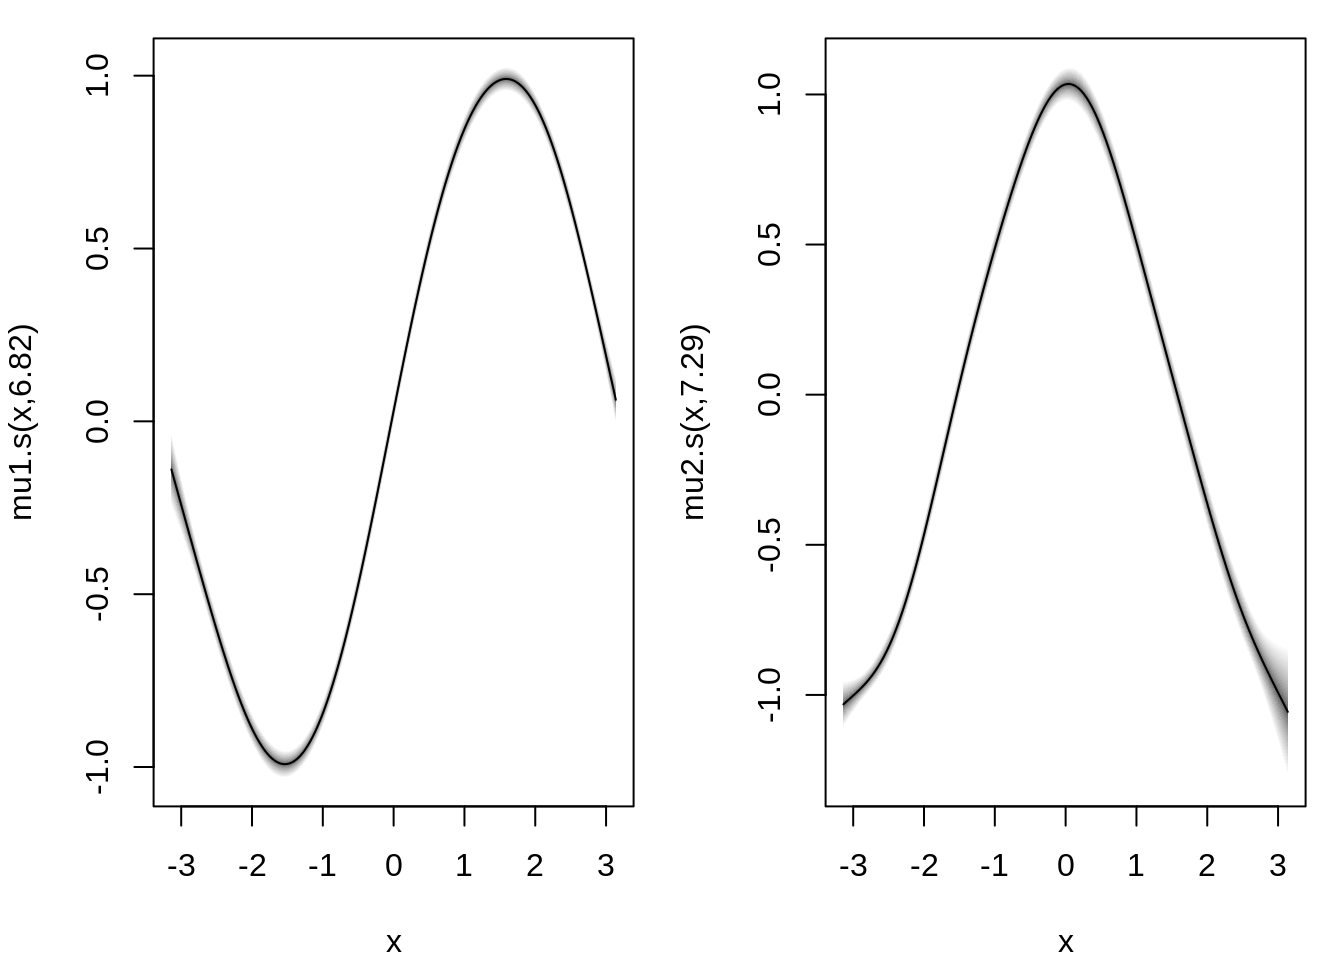
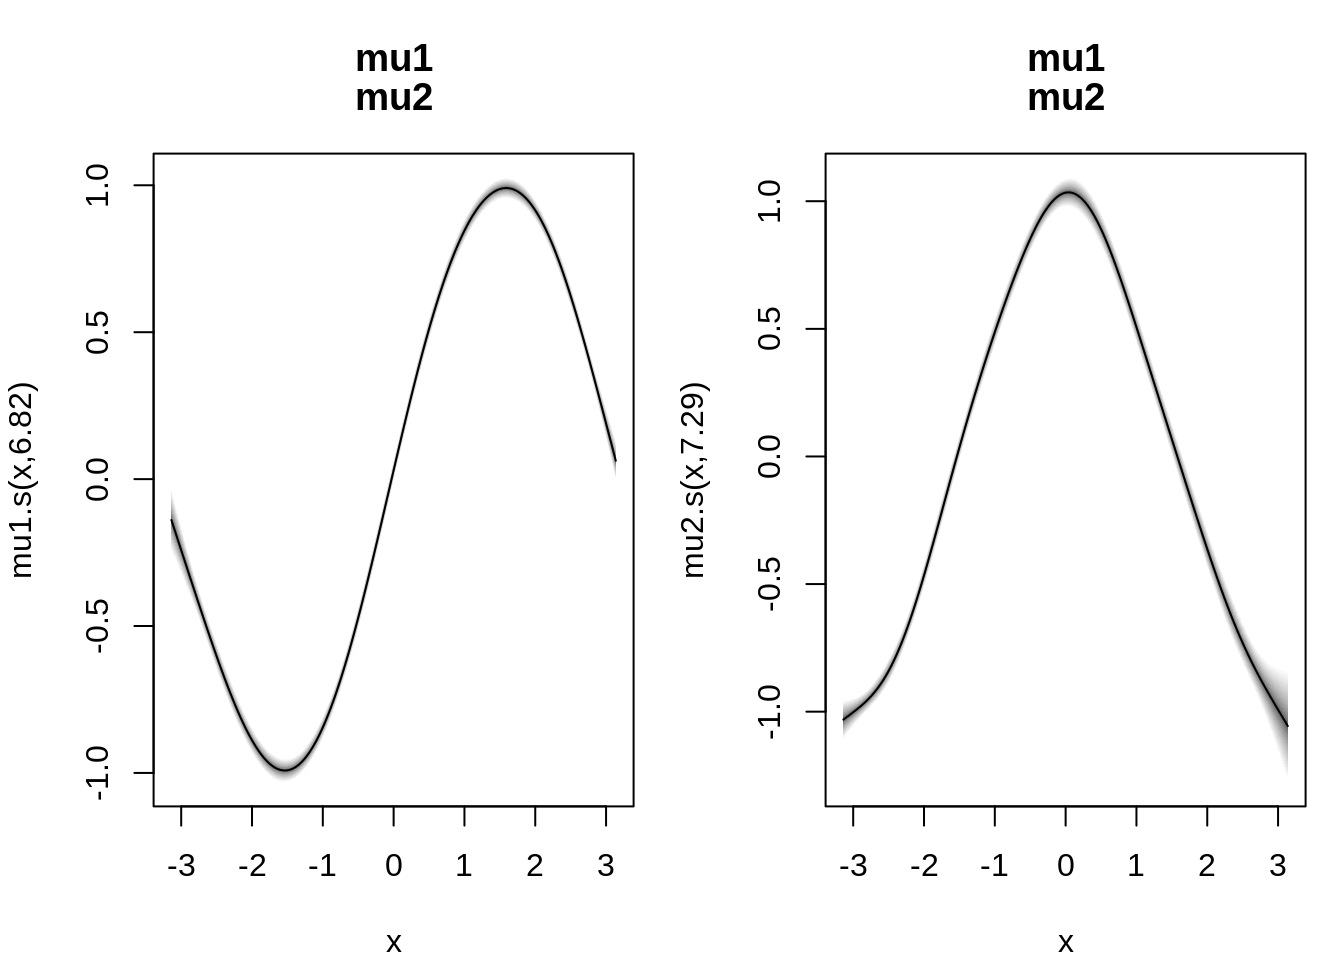
Deploying to gh-pages from @ gamlss-dev/gamlss2@c1de4eb763e1166a4002966d986838cdb9ddbfae 🚀

diff --git a/vignettes/mixture.html b/vignettes/mixture.html
@@ -412,7 +412,7 @@ div.csl-indent {
   <li><a href="#defining-a-custom-mixture-family" id="toc-defining-a-custom-mixture-family" class="nav-link" data-scroll-target="#defining-a-custom-mixture-family"><span class="header-section-number">2</span> Defining a Custom Mixture Family</a></li>
   <li><a href="#fitting-the-mixture-model" id="toc-fitting-the-mixture-model" class="nav-link" data-scroll-target="#fitting-the-mixture-model"><span class="header-section-number">3</span> Fitting the Mixture Model</a></li>
   <li><a href="#predicting-and-visualizing-results" id="toc-predicting-and-visualizing-results" class="nav-link" data-scroll-target="#predicting-and-visualizing-results"><span class="header-section-number">4</span> Predicting and Visualizing Results</a></li>
-  <li><a href="#conclusion" id="toc-conclusion" class="nav-link" data-scroll-target="#conclusion"><span class="header-section-number">5</span> Conclusion</a></li>
+  <li><a href="#summary" id="toc-summary" class="nav-link" data-scroll-target="#summary"><span class="header-section-number">5</span> Summary</a></li>
   </ul>
 </nav>
     </div>
@@ -507,8 +507,8 @@ GAMLSS-RS iteration  9: Global Deviance = 428.3982 eps = 0.000024
 GAMLSS-RS iteration 10: Global Deviance = 428.3948 eps = 0.000008     </code></pre>
 </div>
 <div class="sourceCode cell-code" id="cb5"><pre class="sourceCode r code-with-copy"><code class="sourceCode r"><span id="cb5-1"><a href="#cb5-1" aria-hidden="true" tabindex="-1"></a><span class="do">## plot the estimated effects</span></span>
-<span id="cb5-2"><a href="#cb5-2" aria-hidden="true" tabindex="-1"></a><span class="fu">par</span>(<span class="at">mar =</span> <span class="fu">c</span>(<span class="dv">4</span>, <span class="dv">4</span>, <span class="dv">1</span>, <span class="dv">1</span>))</span>
-<span id="cb5-3"><a href="#cb5-3" aria-hidden="true" tabindex="-1"></a><span class="fu">plot</span>(b)</span></code><button title="Copy to Clipboard" class="code-copy-button"><i class="bi"></i></button></pre></div>
+<span id="cb5-2"><a href="#cb5-2" aria-hidden="true" tabindex="-1"></a><span class="fu">par</span>(<span class="at">mar =</span> <span class="fu">c</span>(<span class="dv">4</span>, <span class="dv">4</span>, <span class="dv">4</span>, <span class="dv">1</span>))</span>
+<span id="cb5-3"><a href="#cb5-3" aria-hidden="true" tabindex="-1"></a><span class="fu">plot</span>(b, <span class="at">main =</span> <span class="fu">c</span>(<span class="st">"mu1"</span>, <span class="st">"mu2"</span>))</span></code><button title="Copy to Clipboard" class="code-copy-button"><i class="bi"></i></button></pre></div>
 <div class="cell-output-display">
 <div>
 <figure class="figure">
@@ -525,7 +525,7 @@ GAMLSS-RS iteration 10: Global Deviance = 428.3948 eps = 0.000008     </code></p
 <div class="sourceCode cell-code" id="cb6"><pre class="sourceCode r code-with-copy"><code class="sourceCode r"><span id="cb6-1"><a href="#cb6-1" aria-hidden="true" tabindex="-1"></a><span class="do">## predict the parameters</span></span>
 <span id="cb6-2"><a href="#cb6-2" aria-hidden="true" tabindex="-1"></a>p <span class="ot">&lt;-</span> <span class="fu">predict</span>(b, <span class="at">type =</span> <span class="st">"parameter"</span>)</span>
 <span id="cb6-3"><a href="#cb6-3" aria-hidden="true" tabindex="-1"></a></span>
-<span id="cb6-4"><a href="#cb6-4" aria-hidden="true" tabindex="-1"></a><span class="do">## compare estimated vs true class probabilities</span></span>
+<span id="cb6-4"><a href="#cb6-4" aria-hidden="true" tabindex="-1"></a><span class="do">## compare estimated vs. true class probabilities</span></span>
 <span id="cb6-5"><a href="#cb6-5" aria-hidden="true" tabindex="-1"></a><span class="fu">plot</span>(p<span class="sc">$</span>pi, mix_prob, <span class="at">main =</span> <span class="st">"Estimated vs True Class Probabilities"</span>, </span>
 <span id="cb6-6"><a href="#cb6-6" aria-hidden="true" tabindex="-1"></a>     <span class="at">xlab =</span> <span class="st">"Estimated Probability"</span>, <span class="at">ylab =</span> <span class="st">"True Probability"</span>)</span>
 <span id="cb6-7"><a href="#cb6-7" aria-hidden="true" tabindex="-1"></a><span class="fu">abline</span>(<span class="dv">0</span>, <span class="dv">1</span>)</span></code><button title="Copy to Clipboard" class="code-copy-button"><i class="bi"></i></button></pre></div>
@@ -552,8 +552,8 @@ GAMLSS-RS iteration 10: Global Deviance = 428.3948 eps = 0.000008     </code></p
 </div>
 </div>
 </section>
-<section id="conclusion" class="level2" data-number="5">
-<h2 data-number="5" class="anchored" data-anchor-id="conclusion"><span class="header-section-number">5</span> Conclusion</h2>
+<section id="summary" class="level2" data-number="5">
+<h2 data-number="5" class="anchored" data-anchor-id="summary"><span class="header-section-number">5</span> Summary</h2>
 <p>In this vignette, we have demonstrated how to fit a mixture model where the mixing probabilities depend on a covariate. We simulated data, defined a custom mixture family, and fitted the model to estimate the component means and mixing probabilities. Finally, we compared the predicted class probabilities with the true values and visualized the results.</p>
 
 

diff --git a/vignettes/families.html b/vignettes/families.html
@@ -445,7 +445,7 @@ window.Quarto = {
   <ul class="collapse">
   <li><a href="#example-modeling-with-the-kumaraswamy-distribution" id="toc-example-modeling-with-the-kumaraswamy-distribution" class="nav-link" data-scroll-target="#example-modeling-with-the-kumaraswamy-distribution"><span class="header-section-number">5.1</span> Example: Modeling with the Kumaraswamy Distribution</a></li>
   </ul></li>
-  <li><a href="#conclusion" id="toc-conclusion" class="nav-link" data-scroll-target="#conclusion"><span class="header-section-number">6</span> Conclusion</a></li>
+  <li><a href="#summary" id="toc-summary" class="nav-link" data-scroll-target="#summary"><span class="header-section-number">6</span> Summary</a></li>
   </ul>
 </nav>
     </div>
@@ -625,8 +625,8 @@ GAMLSS-RS iteration  4: Global Deviance = -1504.1294 eps = 0.000002     </code><
 <p>The <code>Kumaraswamy()</code> family in <em>gamlss2</em> is flexible, allowing the user to specify different link functions for its parameters, such as the default <code>shiftlog</code> link function for parameter <code>a</code>, which ensures non-negative values.</p>
 </section>
 </section>
-<section id="conclusion" class="level2" data-number="6">
-<h2 data-number="6" class="anchored" data-anchor-id="conclusion"><span class="header-section-number">6</span> Conclusion</h2>
+<section id="summary" class="level2" data-number="6">
+<h2 data-number="6" class="anchored" data-anchor-id="summary"><span class="header-section-number">6</span> Summary</h2>
 <p>Family objects in the <em>gamlss2</em> package are a fundamental component for defining flexible, distribution-based regression models, and beyond. By encapsulating the necessary elements, such as parameters, link functions, and density functions, they provide a powerful framework for customizing models to fit specific data. The flexibility to define custom families, as demonstrated with the <code>Kumaraswamy()</code> distribution, enables users to extend the package beyond its default families, making it adaptable to a wide range of modeling scenarios. Furthermore, the ability to define both static and dynamic link functions enhances the versatility of <em>gamlss2</em> for distributional regression, empowering users to tailor models to their unique data and research needs.</p>
 
 

diff --git a/man/prodist.gamlss2.html b/man/prodist.gamlss2.html
@@ -531,10 +531,10 @@ GAMLSS-RS iteration  4: Global Deviance = 405.6976 eps = 0.000000     </code></p
 <div class="sourceCode cell-code" id="cb16"><pre class="sourceCode r code-with-copy"><code class="sourceCode r"><span id="cb16-1"><a href="#cb16-1" aria-hidden="true" tabindex="-1"></a><span class="do">## simulate random numbers</span></span>
 <span id="cb16-2"><a href="#cb16-2" aria-hidden="true" tabindex="-1"></a><span class="fu">random</span>(d, <span class="dv">5</span>)</span></code><button title="Copy to Clipboard" class="code-copy-button"><i class="bi"></i></button></pre></div>
 <div class="cell-output cell-output-stdout">
-<pre><code>       r_1       r_2       r_3       r_4       r_5
-1 17.67148  16.44233  22.90249  38.51612  27.39431
-2 55.76238  75.85143  56.76404  59.32557  69.27208
-3 79.80952 115.83648 130.28244 101.31164 192.13570</code></pre>
+<pre><code>       r_1       r_2      r_3      r_4       r_5
+1 38.91117  30.81475 31.32129 30.51394  27.38882
+2 69.63021  80.16218 66.98858 86.37619  80.63752
+3 62.05764 126.52397 59.64848 35.26592 138.30898</code></pre>
 </div>
 <div class="sourceCode cell-code" id="cb18"><pre class="sourceCode r code-with-copy"><code class="sourceCode r"><span id="cb18-1"><a href="#cb18-1" aria-hidden="true" tabindex="-1"></a><span class="do">## density and distribution</span></span>
 <span id="cb18-2"><a href="#cb18-2" aria-hidden="true" tabindex="-1"></a><span class="fu">pdf</span>(d, <span class="dv">50</span> <span class="sc">*</span> <span class="sc">-</span><span class="dv">2</span><span class="sc">:</span><span class="dv">2</span>)</span></code><button title="Copy to Clipboard" class="code-copy-button"><i class="bi"></i></button></pre></div>

diff --git a/vignettes/spatial.html b/vignettes/spatial.html
@@ -584,7 +584,7 @@ edf 7.7394  2.0782 22.381
 *--------
 n = 3494 df =  115.16 res.df =  3378.84
 Deviance = 16112.0618 Null Dev. Red. = 16.39%
-AIC = 16342.3722 elapsed =  7.40sec</code></pre>
+AIC = 16342.3722 elapsed =  7.33sec</code></pre>
 </div>
 </div>
 <p>Model calibration is checked using histogram, Q-Q plot, wormplot etc.</p>
